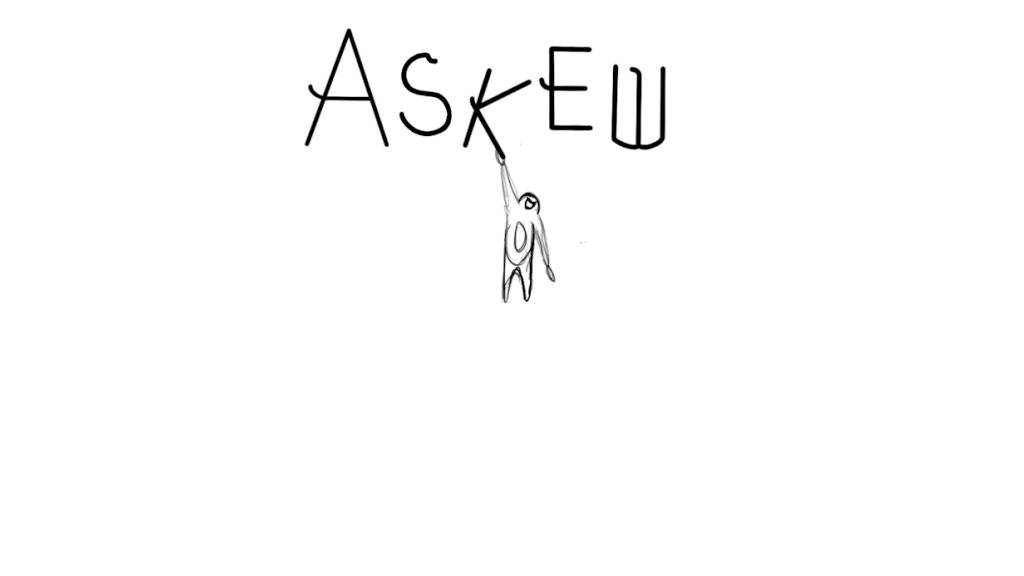
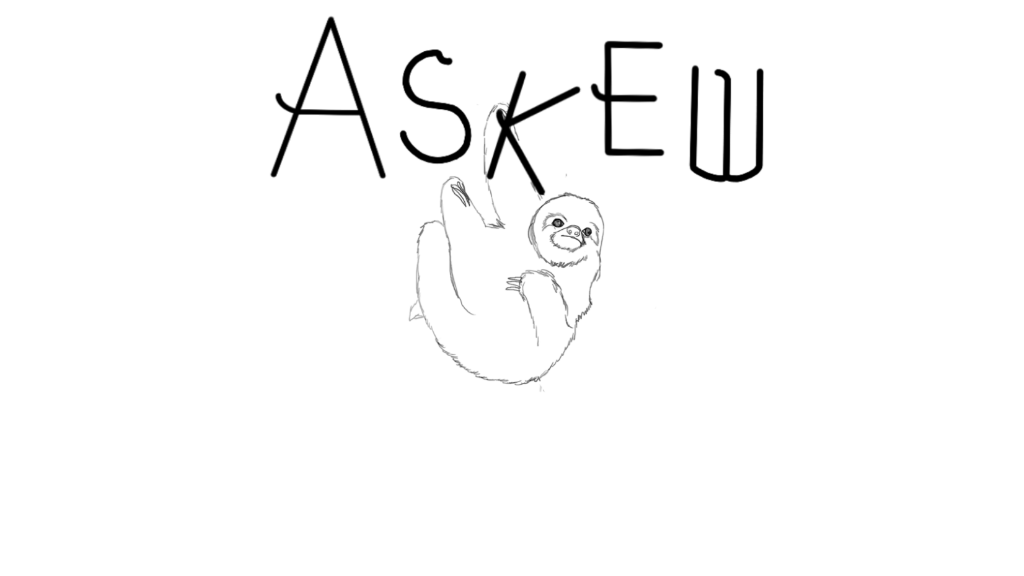
Small makings of a level

diff --git a/PhysicsLab/PhysicsLab/core/src/edu/cornell/gdiac/physics/platform/PlatformController.java b/PhysicsLab/PhysicsLab/core/src/edu/cornell/gdiac/physics/platform/PlatformController.java
@@ -78,8 +78,13 @@ public class PlatformController extends WorldController implements ContactListen
 
 	/** Texture assets for the body parts */
 	private TextureRegion[] bodyTextures;
-	//private static Vector2 DOLL_POS = new Vector2( 2.5f,  5.0f);
-	private static Vector2 DOLL_POS = new Vector2( 7.5f,  17.0f);
+	//private static Vector2 DOLL_POS = new Vector2( 2.5f,  6.0f);
+	//private static Vector2 DOLL_POS = new Vector2( 7.5f,  17.0f);
+	private static Vector2 DOLL_POS = new Vector2( 4.0f,  7.8f);
+	//7.5f,  17.0f
+	//10f, 17.1f
+
+	//5.5f, 7.9f
 
 	/** Track asset loading from all instances and subclasses */
 	private AssetState ragdollAssetState = AssetState.EMPTY;
@@ -203,29 +208,52 @@ public class PlatformController extends WorldController implements ContactListen
 	// Since these appear only once, we do not care about the magic numbers.
 	// In an actual game, this information would go in a data file.
 	// Wall vertices
+
+	/*Original Values*/
+//	private static final float[][] WALLS = {
+//			{16.0f, 18.0f, 16.0f, 17.0f,  1.0f, 17.0f,
+//					1.0f,  0.0f,  0.0f,  0.0f,  0.0f, 18.0f},
+//			{32.0f, 18.0f, 32.0f,  0.0f, 31.0f,  0.0f,
+//					31.0f, 17.0f, 16.0f, 17.0f, 16.0f, 18.0f}
+//	};
 	private static final float[][] WALLS = {
-			{16.0f, 18.0f, 16.0f, 17.0f,  1.0f, 17.0f,
-					1.0f,  0.0f,  0.0f,  0.0f,  0.0f, 18.0f},
-			{32.0f, 18.0f, 32.0f,  0.0f, 31.0f,  0.0f,
-					31.0f, 17.0f, 16.0f, 17.0f, 16.0f, 18.0f}
+			{16.0f, 28.0f, 16.0f, 27.0f,  1.0f, 27.0f,
+					1.0f,  0.0f,  0.0f,  0.0f,  0.0f, 28.0f},
+			{34.0f, 28.0f, 34.0f,  0.0f, 33.0f,  0.0f,
+					33.0f, 27.0f, 16.0f, 27.0f, 16.0f, 28.0f}
 	};
+
+	/*Original Values*/
+//	/** The outlines of all of the platforms */
+//	private static final float[][] PLATFORMS = {
+//			//   x1     y1  x2    y2     x3   y3    x4    y4
+//			//{ 1.0f, 3.0f, 3.0f, 3.0f, 3.0f, 2.5f, 1.0f, 2.5f},
+//			{ 1.0f, 2.0f, 3.0f, 2.0f, 3.0f, 1.5f, 1.0f, 1.5f},
+//			//{ 6.0f, 4.0f, 9.0f, 4.0f, 9.0f, 2.5f, 6.0f, 2.5f},
+//			//{23.0f, 4.0f,31.0f, 4.0f,31.0f, 2.5f,23.0f, 2.5f},
+//			//{1.0f, 14.0f,6.0f, 24.0f,31.0f, 12.5f,26.0f, 11.5f},
+//			//{26.0f, 5.5f,28.0f, 5.5f,28.0f, 5.0f,26.0f, 5.0f},
+//			//{29.0f, 7.0f,31.0f, 7.0f,31.0f, 6.5f,29.0f, 6.5f},
+//			//{24.0f, 8.5f,27.0f, 8.5f,27.0f, 8.0f,24.0f, 8.0f},
+//			//{29.0f,10.0f,31.0f,10.0f,31.0f, 9.5f,29.0f, 9.5f},
+//			//{23.0f,11.5f,27.0f,11.5f,27.0f,11.0f,23.0f,11.0f},
+//			//{19.0f,12.5f,23.0f,12.5f,23.0f,12.0f,19.0f,12.0f},
+//			//{ 1.0f,12.5f, 7.0f,12.5f, 7.0f,12.0f, 1.0f,12.0f}
+//			{ 1.0f,8.5f, 23.0f,8.5f, 23.0f,8.0f, 1.0f,8.0f},
+//			//{ 1.0f,10.5f, 7.0f,10.5f, 7.0f,10.0f, 1.0f,10.0f},
+//			//{ 23.0f,10.5f, 31.0f,10.5f, 31.0f,10.0f, 23.0f,10.0f},
+//	};
 
 	/** The outlines of all of the platforms */
 	private static final float[][] PLATFORMS = {
 			//   x1     y1  x2    y2     x3   y3    x4    y4
 			//{ 1.0f, 3.0f, 3.0f, 3.0f, 3.0f, 2.5f, 1.0f, 2.5f},
-			{ 1.0f, 2.0f, 3.0f, 2.0f, 3.0f, 1.5f, 1.0f, 1.5f},
+			//{ 1.0f, 1.0f, 3.0f, 1.0f, 3.0f, 0.5f, 1.0f, 0.5f},
+			{ 1.0f, 1.0f, 14.0f, 1.0f, 14.0f, 0.5f, 1.0f, 0.5f},
+			//{ 7.0f, 1.0f, 13.0f, 1.0f, 13.0f, 0.5f, 7.0f, 0.5f},
 			//{ 6.0f, 4.0f, 9.0f, 4.0f, 9.0f, 2.5f, 6.0f, 2.5f},
-			//{23.0f, 4.0f,31.0f, 4.0f,31.0f, 2.5f,23.0f, 2.5f},
-			//{1.0f, 14.0f,6.0f, 24.0f,31.0f, 12.5f,26.0f, 11.5f},
-			//{26.0f, 5.5f,28.0f, 5.5f,28.0f, 5.0f,26.0f, 5.0f},
-			//{29.0f, 7.0f,31.0f, 7.0f,31.0f, 6.5f,29.0f, 6.5f},
-			//{24.0f, 8.5f,27.0f, 8.5f,27.0f, 8.0f,24.0f, 8.0f},
-			//{29.0f,10.0f,31.0f,10.0f,31.0f, 9.5f,29.0f, 9.5f},
-			//{23.0f,11.5f,27.0f,11.5f,27.0f,11.0f,23.0f,11.0f},
-			//{19.0f,12.5f,23.0f,12.5f,23.0f,12.0f,19.0f,12.0f},
-			//{ 1.0f,12.5f, 7.0f,12.5f, 7.0f,12.0f, 1.0f,12.0f}
-			{ 1.0f,8.5f, 23.0f,8.5f, 23.0f,8.0f, 1.0f,8.0f},
+			{ 1.0f,8.5f, 21.0f,8.5f, 21.0f,8.0f, 1.0f,8.0f},
+			{ 8.0f,23.5f, 10.0f,23.5f, 29.0f,15.0f, 31.0f,15.0f},
 			//{ 1.0f,10.5f, 7.0f,10.5f, 7.0f,10.0f, 1.0f,10.0f},
 			//{ 23.0f,10.5f, 31.0f,10.5f, 31.0f,10.0f, 23.0f,10.0f},
 	};
@@ -238,24 +266,37 @@ public class PlatformController extends WorldController implements ContactListen
 	/** The initial position of the dude */
 	private static Vector2 DUDE_POS = new Vector2(3.5f, 5.0f);
 	/** The position of the rope bridge */
-	private static Vector2 BRIDGE_POS  = new Vector2(24.0f, 1.8f);
+	//private static Vector2 BRIDGE_POS  = new Vector2(24.0f, 1.8f);
+	private static Vector2 BRIDGE_POS  = new Vector2(18.0f, 0.8f);
 	/** The position of the vines */
 	private static ArrayList<Vector2> VINE_POS  = new ArrayList<Vector2>(
 			Arrays.asList(
-					new Vector2(18f, 17.1f),
-					new Vector2(10f, 17.1f),
+//					new Vector2(18f, 17.1f),
+//					new Vector2(10f, 17.1f),
+//					//new Vector2(10f, 9.1f),
+//					//new Vector2(1.5f, 7.9f),
+//					new Vector2(5.5f, 7.9f),
+//					new Vector2(14f, 7.9f),
+//					new Vector2(22f, 7.9f),
+//					new Vector2(26f, 14f)
+
+					//new Vector2(18f, 17.1f),
+					new Vector2(10.0f, 19.5f),
 					//new Vector2(10f, 9.1f),
 					//new Vector2(1.5f, 7.9f),
-					new Vector2(5.5f, 7.9f),
+					new Vector2(6.5f, 7.9f),
 					new Vector2(14f, 7.9f),
 					new Vector2(22f, 7.9f),
-					new Vector2(26f, 14f)
+					new Vector2(26f, 13.5f),
+					new Vector2(15.5f, 16.0f)
 
 			));
 	/** The position of the branches */
 	private static ArrayList<Vector2> BRANCH_POS  = new ArrayList<Vector2>(
 			Arrays.asList(
-					new Vector2(5f, 10.1f)
+//					new Vector2(5f, 10.1f)
+					new Vector2(5f, 10.1f),
+					new Vector2(21f, 8.3f)
 			));
 	/** The length of the branches */
 	private static ArrayList<Float> BRANCH_LENGTH  = new ArrayList<Float>(

diff --git a/PhysicsLab/PhysicsLab/core/src/edu/cornell/gdiac/physics/WorldController.java b/PhysicsLab/PhysicsLab/core/src/edu/cornell/gdiac/physics/WorldController.java
@@ -617,9 +617,9 @@ public abstract class WorldController implements Screen {
 			SlothModel sloth = getSloth();
 //			float x_pos = -1 * sloth.getBody().getPosition().x * sloth.getDrawScale().x;
 //			float y_pos = -1 * sloth.getBody().getPosition().y * sloth.getDrawScale().y;
-			float x_pos = sloth.getBody().getPosition().x;
-			float y_pos = sloth.getBody().getPosition().y;
-			canvas.drawText("Hold R at the start!", displayFont, -x_pos , -y_pos);
+			float x_pos = sloth.getBody().getPosition().x + canvas.getWidth()/2;
+			float y_pos = sloth.getBody().getPosition().y + canvas.getHeight()/2;
+			canvas.drawText("Hold R at the start!", displayFont, x_pos , y_pos);
 			canvas.end();
 		}
 		
